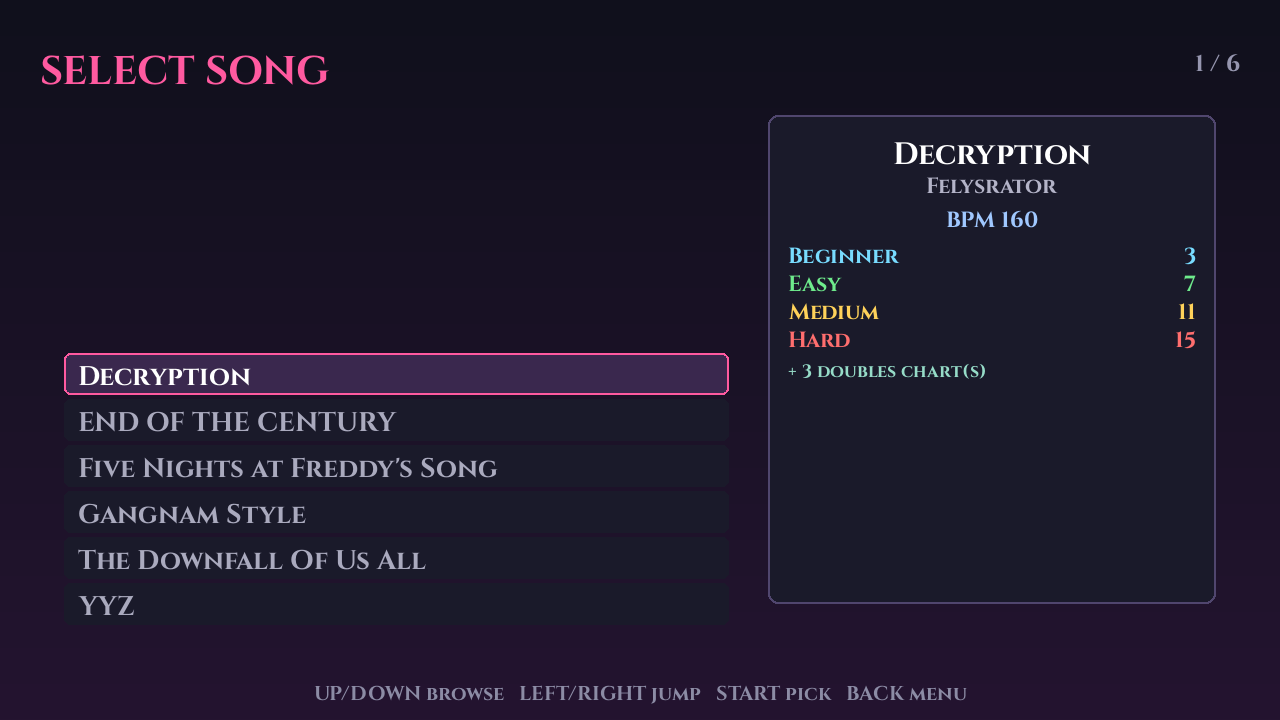
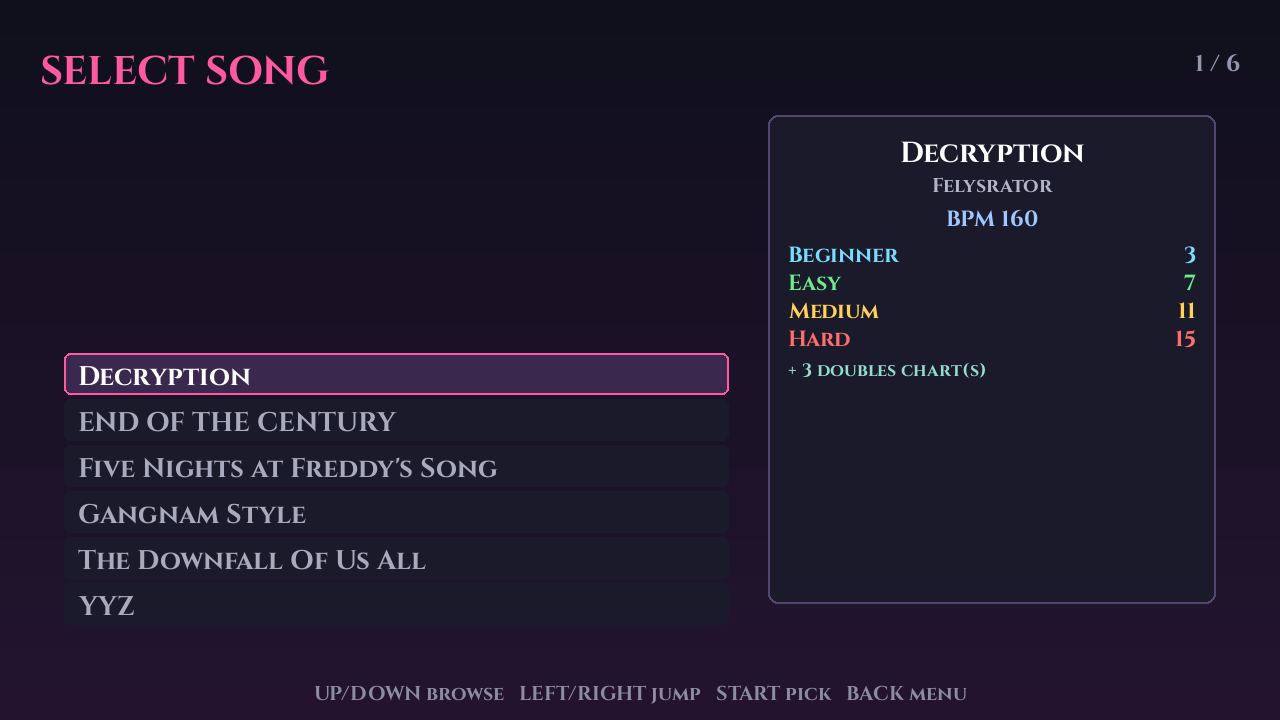
fix: measure text instead of counting characters
Titles were truncated at a fixed character count, which assumed a narrow
face. Cinzel is wider, so a 28 character song title ran straight out of
the detail panel on both sides.

FontBank gains wrap(), which breaks text to a pixel width and can cap the
lines with an ellipsis, and fit(), which shrinks until a line fits. The
song panel wraps its title and artist, the wheel rows and pad names
ellipsise at their real width, and the difficulty, gameplay and results
headlines shrink rather than overflow.

diff --git a/ceilidh/screens/select.py b/ceilidh/screens/select.py
@@ -56,6 +56,17 @@ class SongSelect(ListScreen):
                     self.preview_song = song
                     play_preview(song.music, song.sample_start, self.cfg.music_volume * 0.7)
 
+    def centred_block(self, surface: pygame.Surface, text: str, pos: tuple[int, int],
+                      size: int, max_width: int, colour: tuple[int, int, int],
+                      bold: bool = False, max_lines: int = 0) -> int:
+        """Draw text centred and wrapped, returning the y below it."""
+        x, y = pos
+        for line in self.fonts.wrap(text, size, max_width, bold=bold, max_lines=max_lines):
+            rect = self.fonts.draw(surface, line, (x, y), size, colour, bold=bold,
+                                   anchor="midtop")
+            y = rect.bottom
+        return y
+
     def banner(self, song) -> pygame.Surface | None:
         if song.banner is None:
             return None
@@ -106,9 +117,10 @@ class SongSelect(ListScreen):
             if selected:
                 pygame.draw.rect(surface, ACCENT, rect, 2, border_radius=6)
             colour = (255, 255, 255) if selected else (170, 170, 190)
-            title = entry.display_title
-            if len(title) > 40:
-                title = title[:38] + "..."
+            room = list_w - int(28 * scale) - self.fonts.render(
+                entry.pack or "", int(20 * scale)).get_width()
+            title = self.fonts.wrap(entry.display_title, int(30 * scale), room,
+                                    bold=selected, max_lines=1)[0]
             self.fonts.draw(surface, title, (list_x + int(14 * scale), y), int(30 * scale),
                             colour, bold=selected, anchor="midleft")
             self.fonts.draw(surface, entry.pack or "", (list_x + list_w - int(14 * scale), y),
@@ -129,12 +141,14 @@ class SongSelect(ListScreen):
             surface.blit(scaled, (panel.left + int(16 * scale), y))
             y += target_h + int(14 * scale)
 
-        self.fonts.draw(surface, song.title[:28], (panel.centerx, y), int(34 * scale),
-                        (255, 255, 255), bold=True, anchor="midtop")
-        y += int(38 * scale)
-        self.fonts.draw(surface, song.artist[:32], (panel.centerx, y), int(24 * scale),
-                        (180, 180, 200), anchor="midtop")
-        y += int(34 * scale)
+        inner = panel.width - int(28 * scale)
+        y = self.centred_block(surface, song.title, (panel.centerx, y), int(32 * scale),
+                               inner, (255, 255, 255), bold=True, max_lines=3)
+        y += int(4 * scale)
+        if song.artist:
+            y = self.centred_block(surface, song.artist, (panel.centerx, y), int(22 * scale),
+                                   inner, (180, 180, 200), max_lines=2)
+        y += int(8 * scale)
         self.fonts.draw(surface, f"BPM {song.timing.display_bpm()}", (panel.centerx, y),
                         int(24 * scale), (160, 200, 255), anchor="midtop")
         y += int(36 * scale)
@@ -262,8 +276,10 @@ class DifficultySelect(Screen):
         scale = self.app.scale
         charts = self.charts()
 
-        self.fonts.draw(surface, self.song.display_title[:44], (width // 2, int(56 * scale)),
-                        int(46 * scale), (255, 255, 255), bold=True, anchor="center")
+        headline = self.song.display_title
+        headline_size = self.fonts.fit(headline, int(46 * scale), int(width * 0.86), bold=True)
+        self.fonts.draw(surface, headline, (width // 2, int(56 * scale)),
+                        headline_size, (255, 255, 255), bold=True, anchor="center")
         self.fonts.draw(surface, f"{self.song.artist}   BPM {self.song.timing.display_bpm()}",
                         (width // 2, int(96 * scale)), int(26 * scale), (170, 170, 195), anchor="center")
 
@@ -283,8 +299,10 @@ class DifficultySelect(Screen):
             label = f"P{player + 1}"
             self.fonts.draw(surface, label, (column_x, int(196 * scale)), int(34 * scale),
                             (255, 255, 255) if joined else (110, 110, 130), bold=True, anchor="center")
-            self.fonts.draw(surface, self.app.input.device_name(player)[:22],
-                            (column_x, int(224 * scale)), int(18 * scale), (130, 130, 155), anchor="center")
+            pad_name = self.fonts.wrap(self.app.input.device_name(player), int(18 * scale),
+                                       int(340 * scale), max_lines=1)[0]
+            self.fonts.draw(surface, pad_name, (column_x, int(224 * scale)),
+                            int(18 * scale), (130, 130, 155), anchor="center")
 
             if not joined:
                 self.fonts.draw(surface, "press START to join", (column_x, int(300 * scale)),

diff --git a/ceilidh/display/fonts.py b/ceilidh/display/fonts.py
@@ -87,6 +87,56 @@ class FontBank:
         """Bundled faces we asked for and did not find."""
         return set(self._missing)
 
+    def wrap(self, text: str, size: int, max_width: int, bold: bool = False,
+             role: str = UI, max_lines: int = 0) -> list[str]:
+        """Break text into lines that actually fit, by measuring rather than counting."""
+        font = self.font(size, bold, role)
+
+        def chop(word: str) -> tuple[list[str], str]:
+            """Split a word too wide for any line, returning the full pieces
+            and whatever tail still fits."""
+            pieces: list[str] = []
+            while len(word) > 1 and font.size(word)[0] > max_width:
+                cut = len(word) - 1
+                while cut > 1 and font.size(word[:cut])[0] > max_width:
+                    cut -= 1
+                pieces.append(word[:cut])
+                word = word[cut:]
+            return pieces, word
+
+        lines: list[str] = []
+        current = ""
+        for word in text.split():
+            pieces, word = chop(word)
+            if pieces:
+                if current:
+                    lines.append(current)
+                    current = ""
+                lines.extend(pieces)
+            candidate = f"{current} {word}".strip()
+            if not current or font.size(candidate)[0] <= max_width:
+                current = candidate
+            else:
+                lines.append(current)
+                current = word
+        if current:
+            lines.append(current)
+
+        if max_lines and len(lines) > max_lines:
+            lines = lines[:max_lines]
+            last = lines[-1]
+            while last and font.size(last + "...")[0] > max_width:
+                last = last[:-1]
+            lines[-1] = last.rstrip() + "..."
+        return lines or [""]
+
+    def fit(self, text: str, size: int, max_width: int, bold: bool = False,
+            role: str = UI, minimum: int = 10) -> int:
+        """The largest size at or below this one that keeps the text on one line."""
+        while size > minimum and self.font(size, bold, role).size(text)[0] > max_width:
+            size -= 2
+        return size
+
     def render(
         self,
         text: str,

diff --git a/tests/test_fonts.py b/tests/test_fonts.py
@@ -39,3 +39,48 @@ def test_text_is_cached_per_role():
     first = bank.render("Play", 32, role=UI)
     assert bank.render("Play", 32, role=UI) is first
     assert bank.render("Play", 32, role=DISPLAY) is not first
+
+
+def test_wrapping_breaks_on_words_that_do_not_fit():
+    bank = FontBank()
+    wide = bank.render("Five Nights at Freddy's Song", 34).get_width()
+    lines = bank.wrap("Five Nights at Freddy's Song", 34, wide // 2)
+    assert len(lines) > 1
+    assert " ".join(lines) == "Five Nights at Freddy's Song"
+
+
+def test_wrapping_leaves_short_text_alone():
+    bank = FontBank()
+    assert bank.wrap("YYZ", 34, 500) == ["YYZ"]
+
+
+def test_a_single_overlong_word_is_broken_rather_than_overflowing():
+    bank = FontBank()
+    lines = bank.wrap("Supercalifragilisticexpialidocious", 34, 80)
+    assert len(lines) > 1
+    assert all(bank.font(34).size(line)[0] <= 80 for line in lines)
+
+
+def test_wrapping_can_be_capped_with_an_ellipsis():
+    bank = FontBank()
+    lines = bank.wrap("one two three four five six seven eight", 30, 90, max_lines=2)
+    assert len(lines) == 2
+    assert lines[-1].endswith("...")
+
+
+def test_wrapping_empty_text_still_gives_a_line():
+    assert FontBank().wrap("", 20, 100) == [""]
+
+
+def test_fit_shrinks_until_the_text_goes_on_one_line():
+    bank = FontBank()
+    text = "Five Nights at Freddy's Song"
+    full = bank.render(text, 40).get_width()
+    size = bank.fit(text, 40, full // 2)
+    assert size < 40
+    assert bank.font(size).size(text)[0] <= full // 2
+
+
+def test_fit_leaves_text_that_already_fits():
+    bank = FontBank()
+    assert bank.fit("YYZ", 40, 800) == 40

diff --git a/ceilidh/screens/game.py b/ceilidh/screens/game.py
@@ -213,11 +213,12 @@ class Gameplay(Screen):
         pygame.draw.rect(surface, (20, 20, 30), (0, 0, width, strip))
         pygame.draw.rect(surface, ACCENT, (0, 0, int(width * done), strip))
 
-        title = self.song.display_title[:54]
+        title = self.song.display_title
+        size = self.fonts.fit(title, int(22 * scale), int(width * 0.6), bold=True)
         y = strip + int(4 * scale)
-        self.fonts.draw(surface, title, (width // 2 + 2, y + 2), int(22 * scale),
+        self.fonts.draw(surface, title, (width // 2 + 2, y + 2), size,
                         (0, 0, 0), bold=True, anchor="midtop")
-        self.fonts.draw(surface, title, (width // 2, y), int(22 * scale), TEXT,
+        self.fonts.draw(surface, title, (width // 2, y), size, TEXT,
                         bold=True, anchor="midtop")
 
     def _draw_countdown(self, surface: pygame.Surface, scale: float) -> None:

diff --git a/ceilidh/screens/results.py b/ceilidh/screens/results.py
@@ -44,8 +44,10 @@ class Results(Screen):
                 width // 2 - int(158 * scale), int(40 * scale))))
         self.fonts.draw(surface, "RESULTS", (width // 2, int(40 * scale)), int(56 * scale),
                         (255, 90, 160), bold=True, anchor="center")
-        self.fonts.draw(surface, self.song.display_title[:44], (width // 2, int(92 * scale)),
-                        int(30 * scale), (215, 215, 235), anchor="center")
+        subtitle = self.song.display_title
+        subtitle_size = self.fonts.fit(subtitle, int(30 * scale), int(width * 0.8))
+        self.fonts.draw(surface, subtitle, (width // 2, int(92 * scale)),
+                        subtitle_size, (215, 215, 235), anchor="center")
 
         count = len(self.lanes)
         for index, lane in enumerate(self.lanes):
